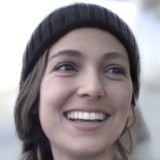
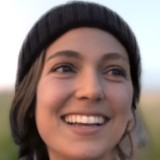
Adding portrait relighting

diff --git a/index.html b/index.html
@@ -120,6 +120,50 @@
         </table>
 
         <table width="100%" align="center" border="0" cellspacing="0" cellpadding="20">
+
+          <tr onmouseout="porlight_stop()" onmouseover="porlight_start()">
+            <td width="25%">
+              <div class="one">
+                <div class="two" id='porlight_image'><img src='images/porlight_after.jpg'></div>
+                <img src='images/porlight_before.jpg'>
+              </div>
+              <script type="text/javascript">
+                function porlight_start() {
+                  document.getElementById('porlight_image').style.opacity = "1";
+                }
+
+                function porlight_stop() {
+                  document.getElementById('porlight_image').style.opacity = "0";
+                }
+                porlight_stop()
+              </script>
+            </td>
+            <td valign="middle" width="75%">
+              <a href="https://arxiv.org/abs/1905.00824">
+                <papertitle>Single Image Portrait Relighting</papertitle>
+              </a>
+              <br>
+              <a href="http://kevinkingo.com/"">Tiancheng Sun</a>,
+              <strong>Jonathan T. Barron</strong>,
+              Yun-Ta Tsai, 
+              <a href="https://cseweb.ucsd.edu/~zex014/">Zexiang Xu</a>,
+              Xueming Yu, 
+              <a href="http://ict.usc.edu/profile/graham-fyffe/">Graham Fyffe</a>, 
+              Christoph Rhemann, 
+              Jay Busch, 
+              <a href="https://www.pauldebevec.com/">Paul Debevec</a>, 
+              <a href="https://cseweb.ucsd.edu/~ravir/">Ravi Ramamoorthi</a>
+              <br>
+              <em>SIGGRAPH</em>, 2019
+              <br>
+			  <a href="https://www.youtube.com/watch?v=yxhGWds_g4I">video</a> / 
+			  <a href="data/SunSIGGRAPH2019.bib">bibtex</a>
+              <br>
+              <p></p>
+              <p>Training a neural network on light stage scans and environment maps produces an effective relighting method.</p>
+            </td>
+          </tr>
+
           <tr onmouseout="dpzlearn_stop()" onmouseover="dpzlearn_start()">
             <td width="25%">
               <div class="one">
@@ -139,8 +183,7 @@
             </td>
             <td valign="middle" width="75%">
               <a href="https://arxiv.org/abs/1904.05822">
-                <papertitle>Learning Single Camera Depth Estimation using Dual-Pixels
-</papertitle>
+                <papertitle>Learning Single Camera Depth Estimation using Dual-Pixels</papertitle>
               </a>
               <br>
               <a href="http://rahuldotgarg.appspot.com/">Rahul Garg</a>,
